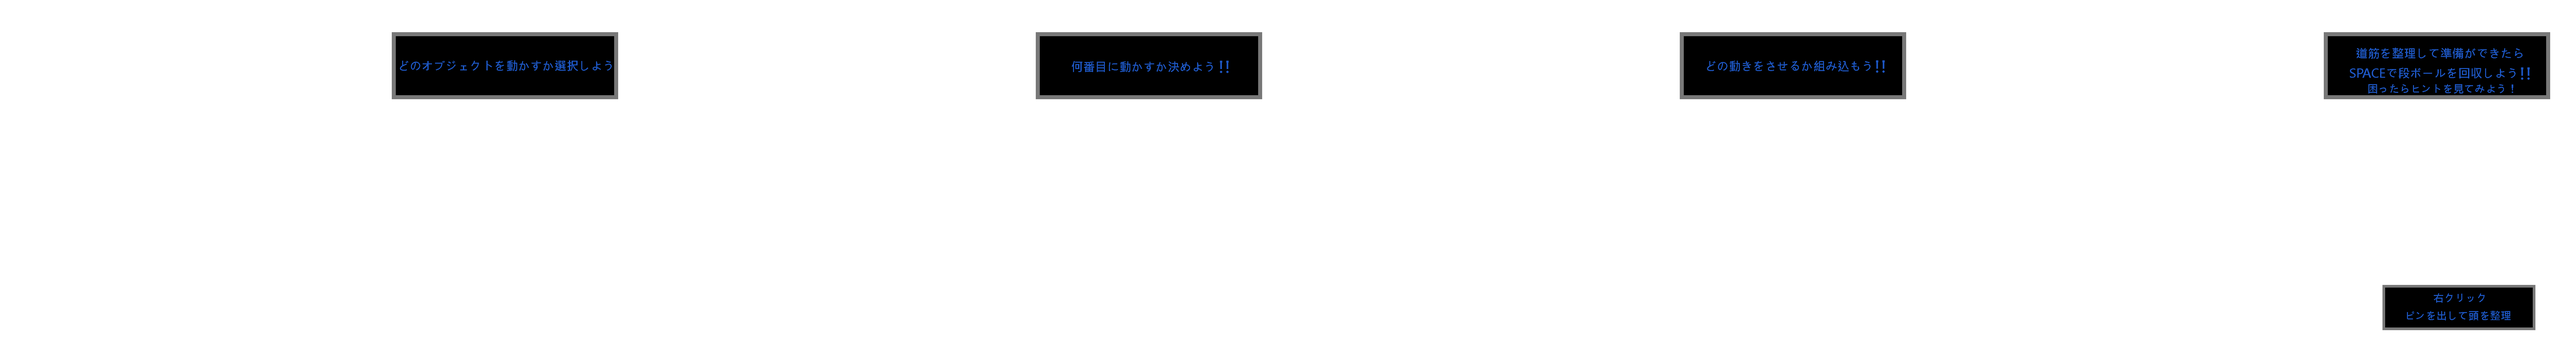
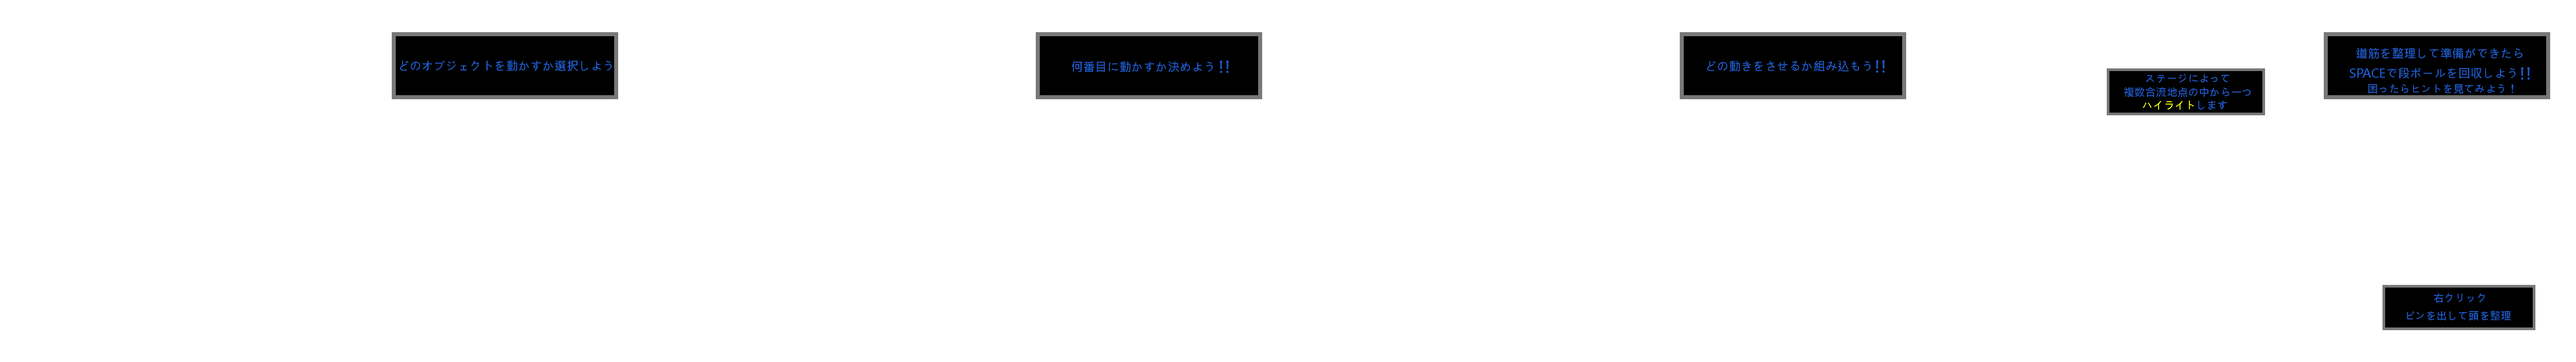
ツミコミパズルver1.1 マウスでもスタート出来るように。ヒントのハイライト説明の追記。  Box moveSpeedUp = { 0,0,10,10 };で場所を切り替えて描画をすれば動きのスピードアップ(2倍)

Changed region(s): [[0.8125, 0.1833, 0.9062, 0.3361]]

diff --git a/SelectSetObject.cpp b/SelectSetObject.cpp
@@ -75,7 +75,7 @@ void SelectSetObject::CheckMapChipDate(int stage)
 				}
 				if (loadFile_->mapDate[stage][objectPoint.y][objectPoint.x] == MapChip::ROCK)
 				{
-					if (enemy > 5)
+					if (enemy > 4)
 					{
 						return;
 					}
